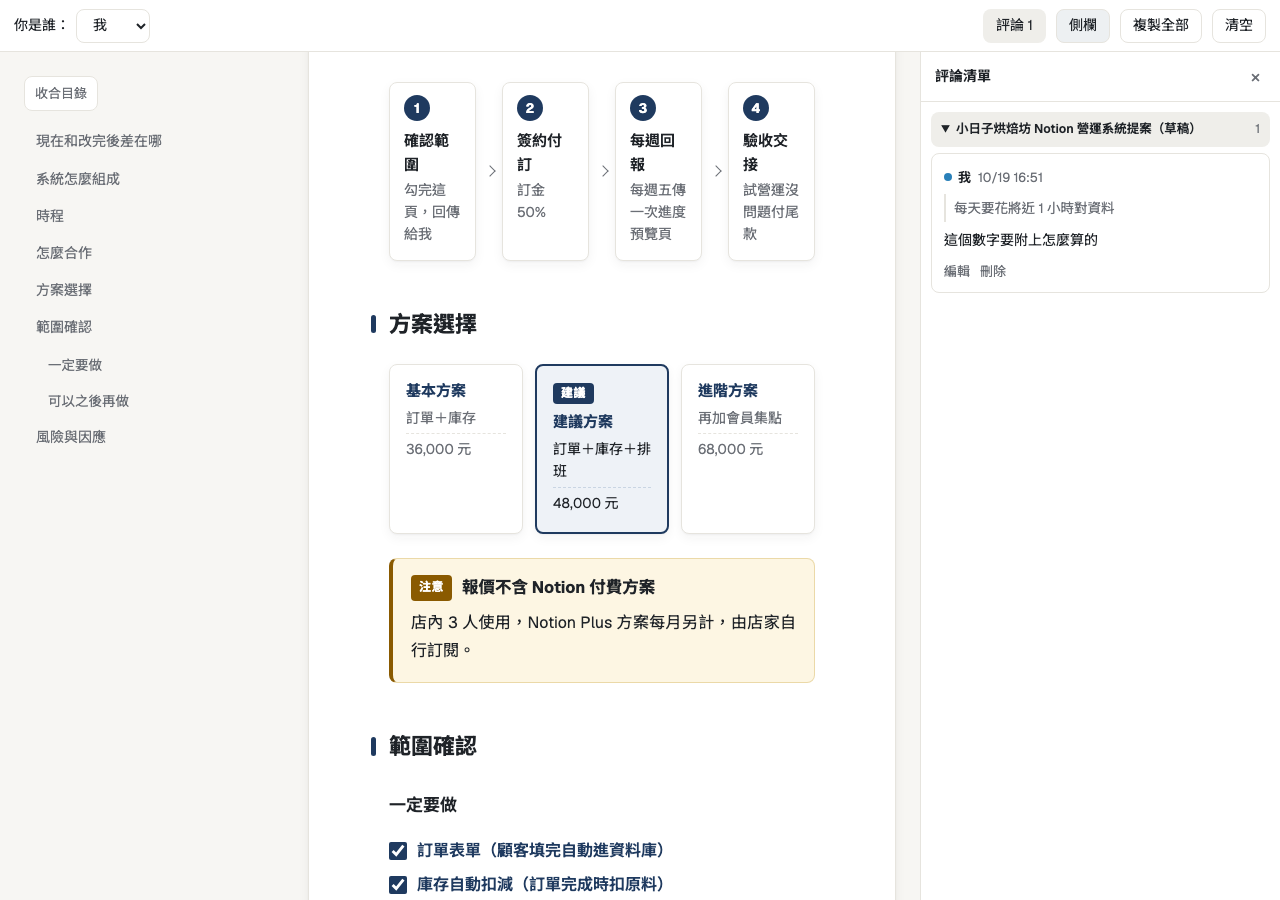
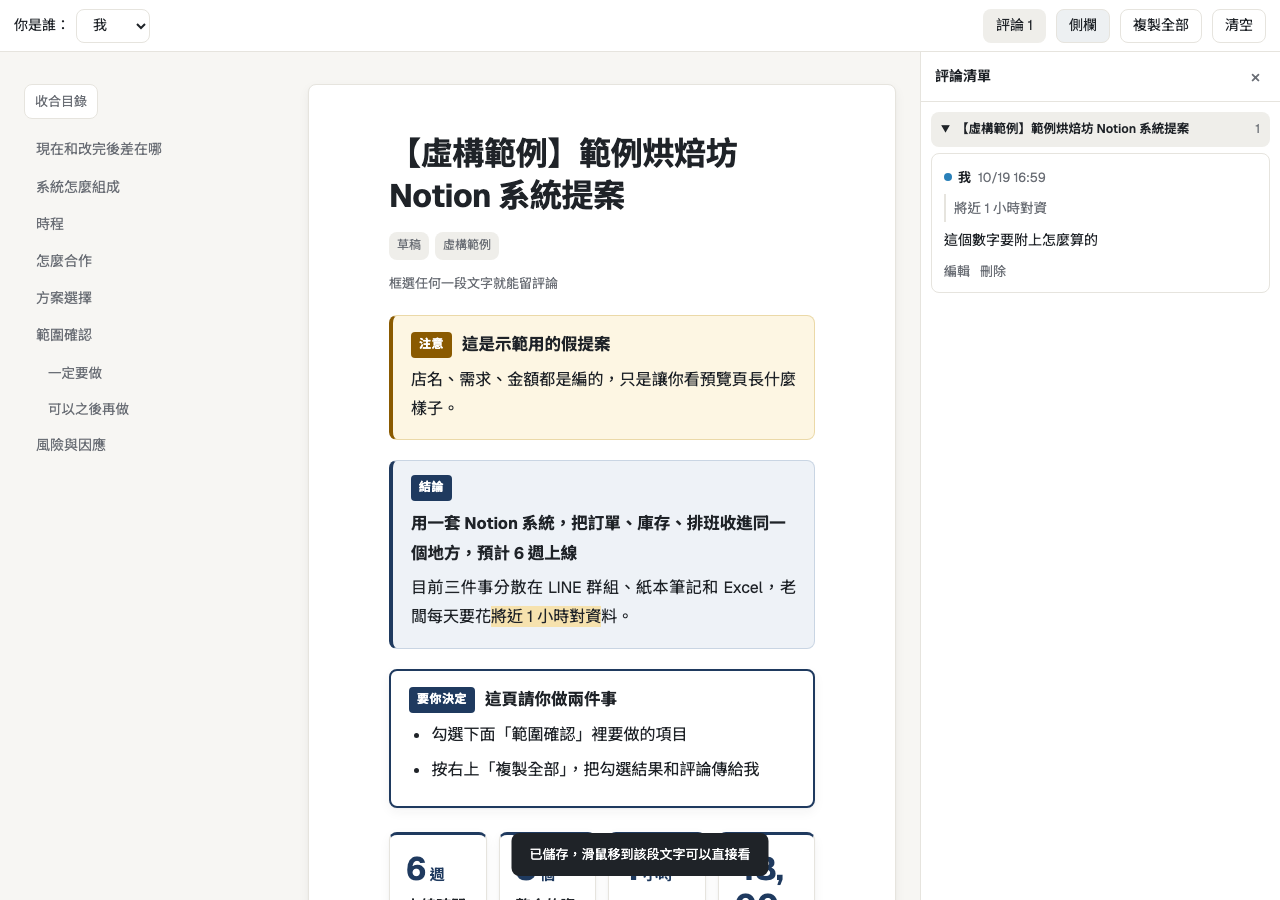
範例改成明顯虛構的「範例烘焙坊」並加上假提案說明，更新截圖

diff --git a/preview/SKILL.md b/preview/SKILL.md
@@ -100,7 +100,7 @@ echo "$SKILL_DIR"
 - 要預覽什麼？（對話裡剛寫的內容、使用者給的檔案）
 - 誰會評論？身份預設 `我,訪客`。要給客戶看就改成例如 `客戶,我`（第一個是預設身份）。
 
-來源是對話裡的內容時，先存成 md 檔，放在使用者目前的工作資料夾（沒有就放桌面上的 `預覽` 資料夾），檔名用中文描述內容，例如 `提案-小日子烘焙坊.md`。
+來源是對話裡的內容時，先存成 md 檔，放在使用者目前的工作資料夾（沒有就放桌面上的 `預覽` 資料夾），檔名用中文描述內容，例如 `提案-範例客戶.md`。
 
 ### Step 2：產頁
 

diff --git a/preview/assets/example.md b/preview/assets/example.md
@@ -1,4 +1,7 @@
-# 小日子烘焙坊 Notion 營運系統提案（草稿）
+# 【虛構範例】範例烘焙坊 Notion 系統提案
+
+> [!注意] 這是示範用的假提案
+> 店名、需求、金額都是編的，只是讓你看預覽頁長什麼樣子。
 
 > [!結論] 用一套 Notion 系統，把訂單、庫存、排班收進同一個地方，預計 6 週上線
 > 目前三件事分散在 LINE 群組、紙本筆記和 Excel，老闆每天要花將近 1 小時對資料。
